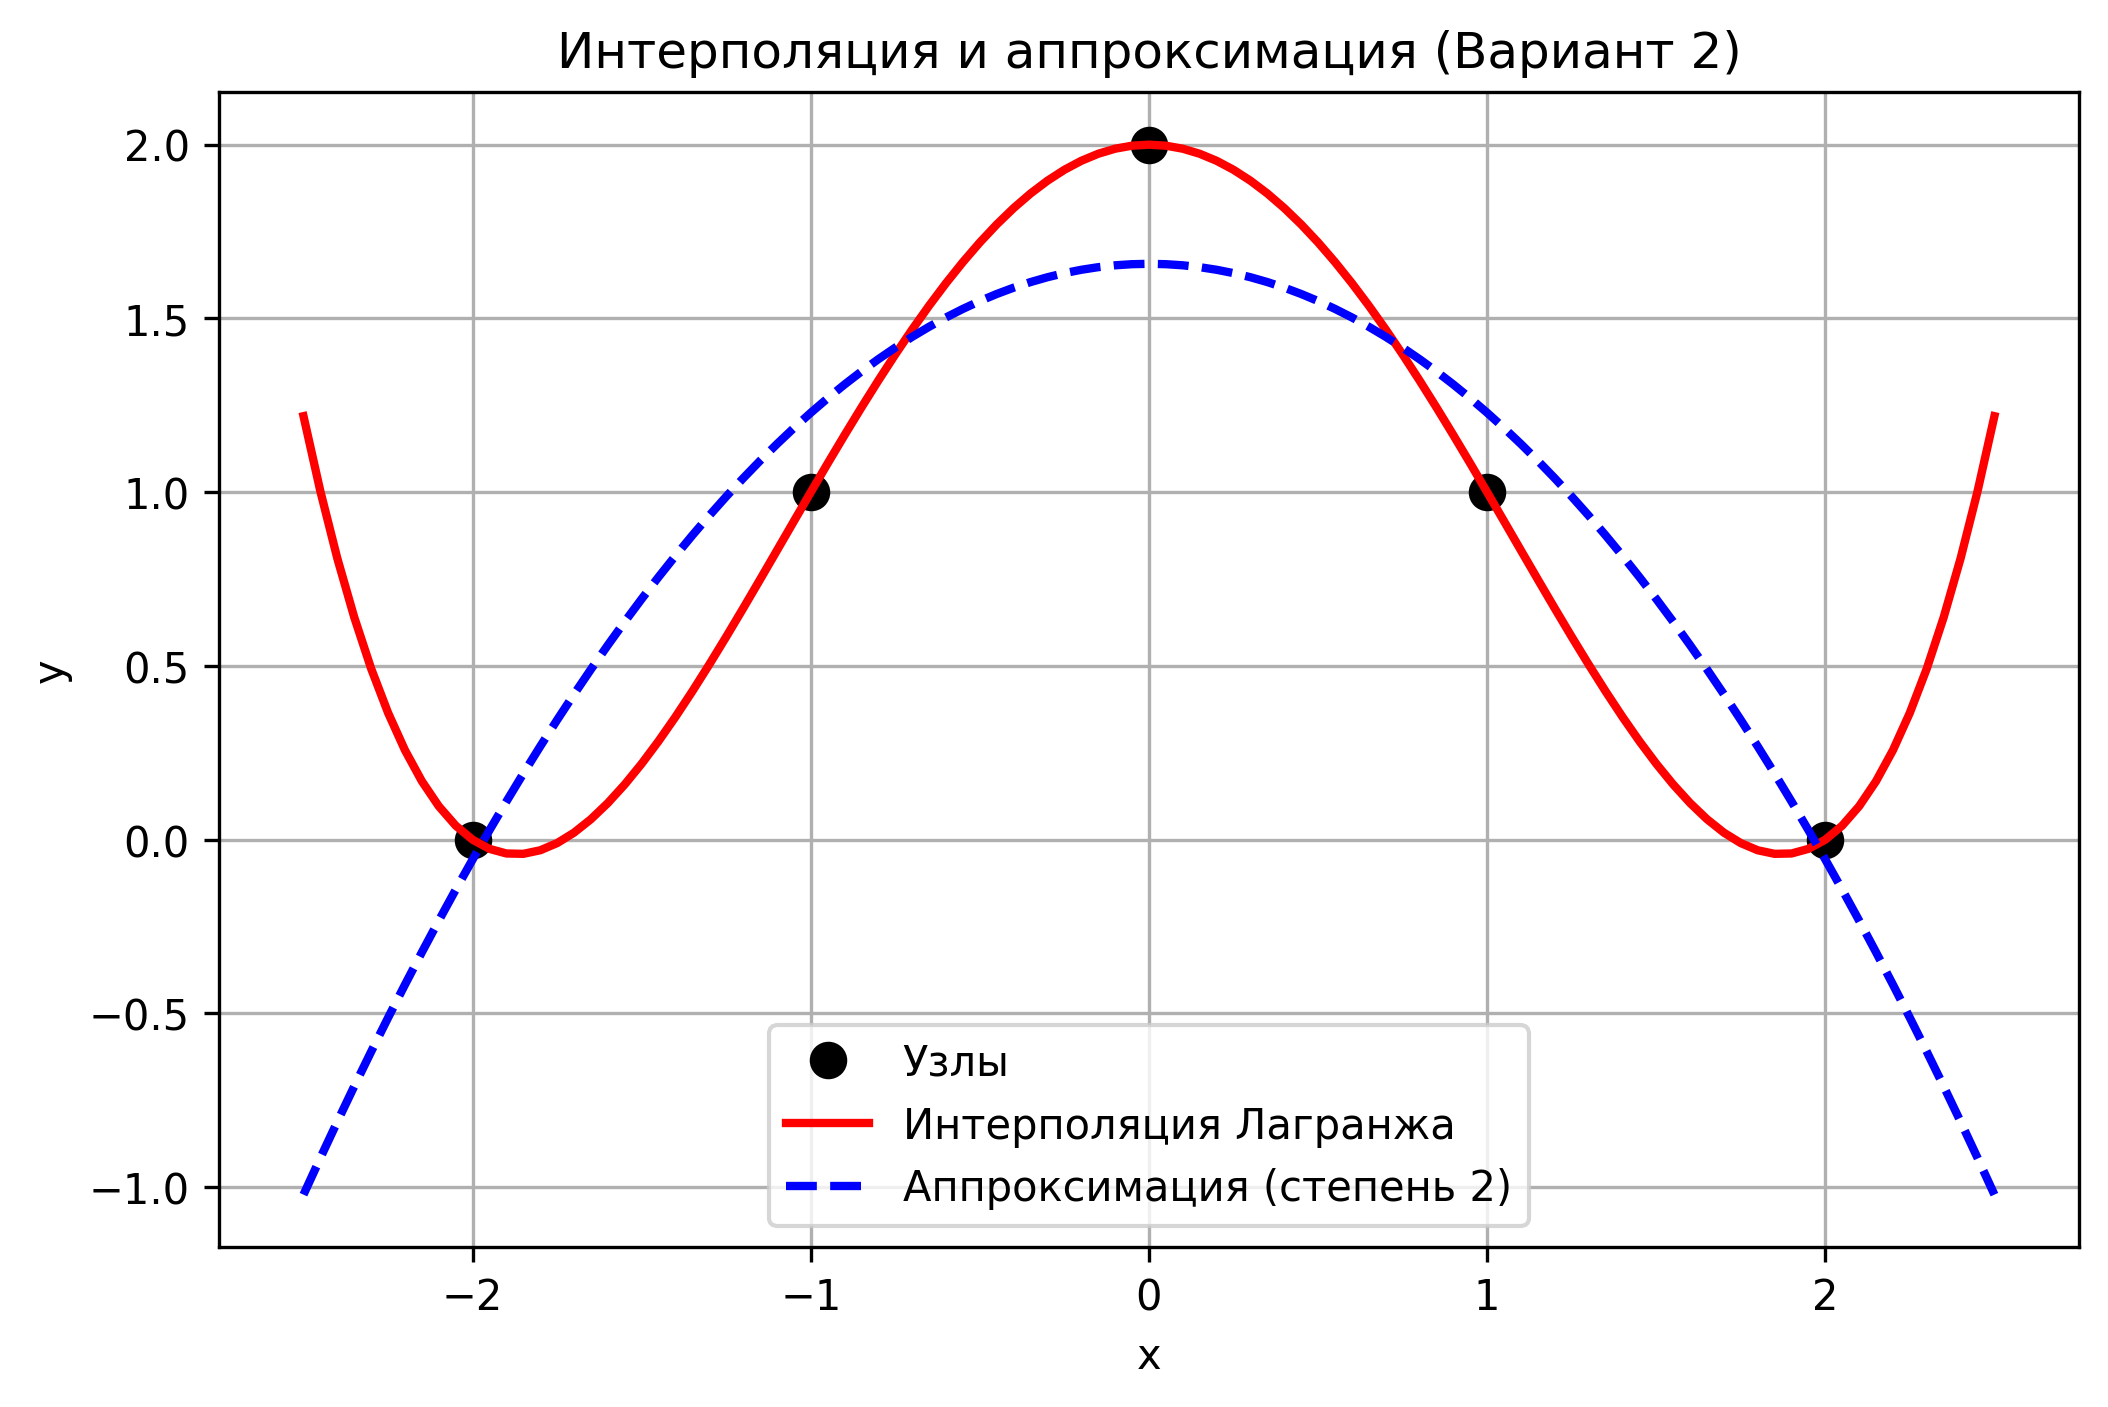
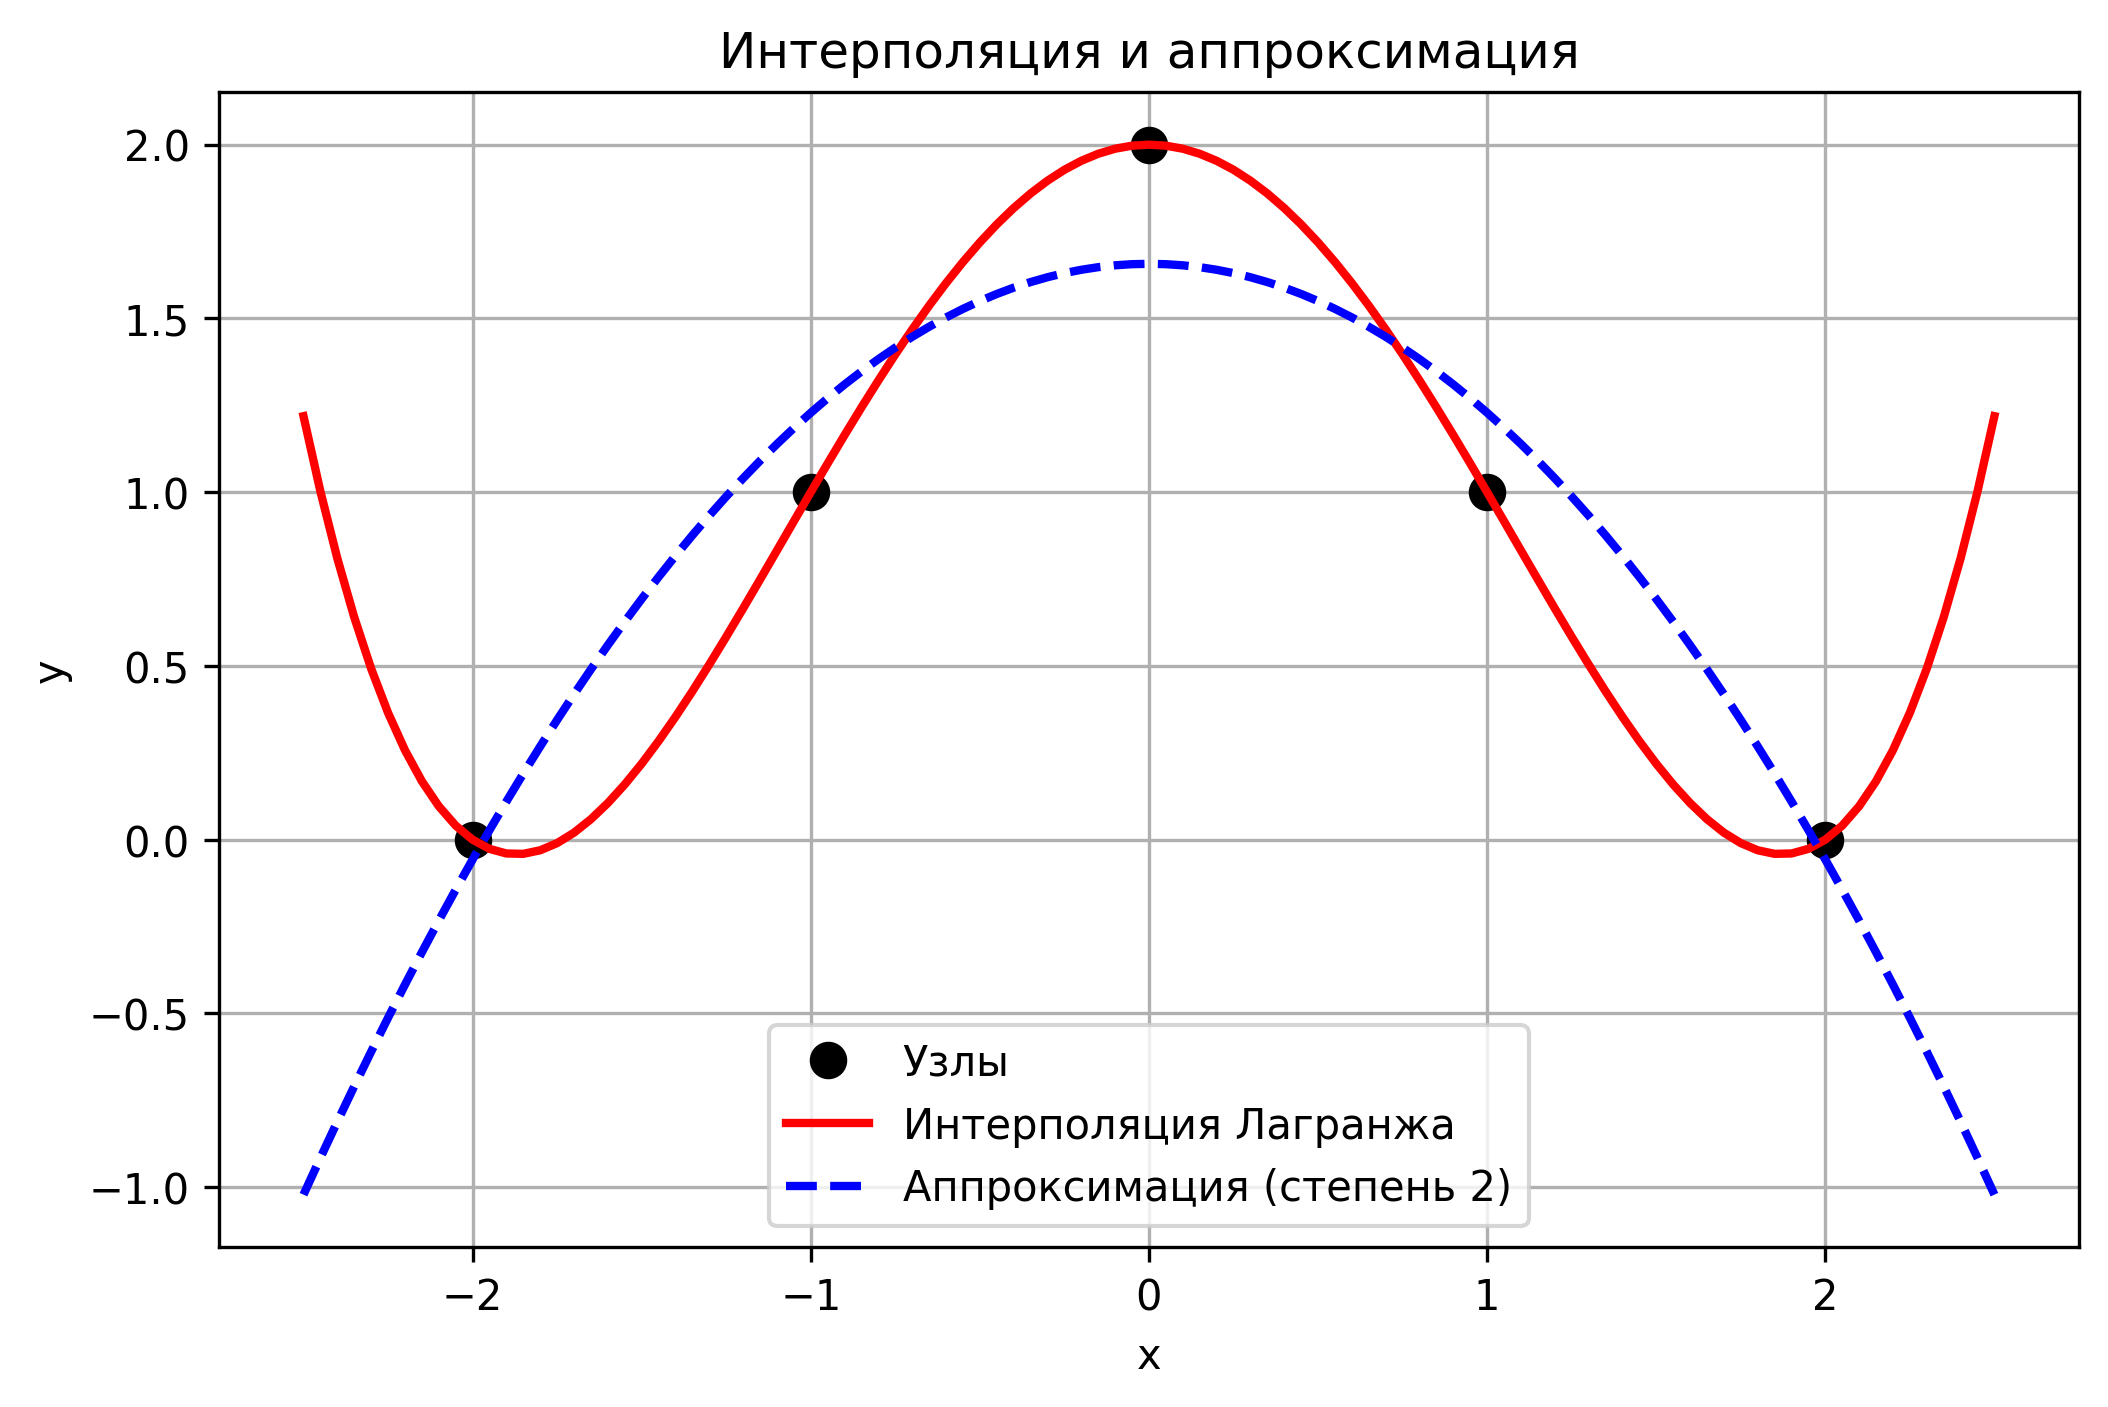
лаба

Changed region(s): [[0.2467, 0.0306, 0.8325, 0.0611]]

diff --git a/lab5.py b/lab5.py
@@ -98,7 +98,7 @@ plt.figure(figsize=(8, 5))
 plt.plot(x_nodes, y_nodes, 'ko', markersize=8, label='Узлы')
 plt.plot(x_plot, y_lagrange, 'r-', linewidth=2, label='Интерполяция Лагранжа')
 plt.plot(x_plot, y_approx, 'b--', linewidth=2, label=f'Аппроксимация (степень {degree})')
-plt.title('Интерполяция и аппроксимация (Вариант 2)')
+plt.title('Интерполяция и аппроксимация')
 plt.xlabel('x')
 plt.ylabel('y')
 plt.legend()
@@ -128,7 +128,7 @@ for n in n_values:
     y_interp_r = [lagrange(x, x_nodes_r, y_nodes_r) for x in x_true]
     plt.plot(x_true, y_interp_r, '--', label=f'Интерполяция n={n}')
 
-plt.title('Феномен Рунге: интерполяция функции варианта 2')
+plt.title('Феномен Рунге: интерполяция функции')
 plt.xlabel('x')
 plt.ylabel('y')
 plt.ylim(-1.0, 3.0)
